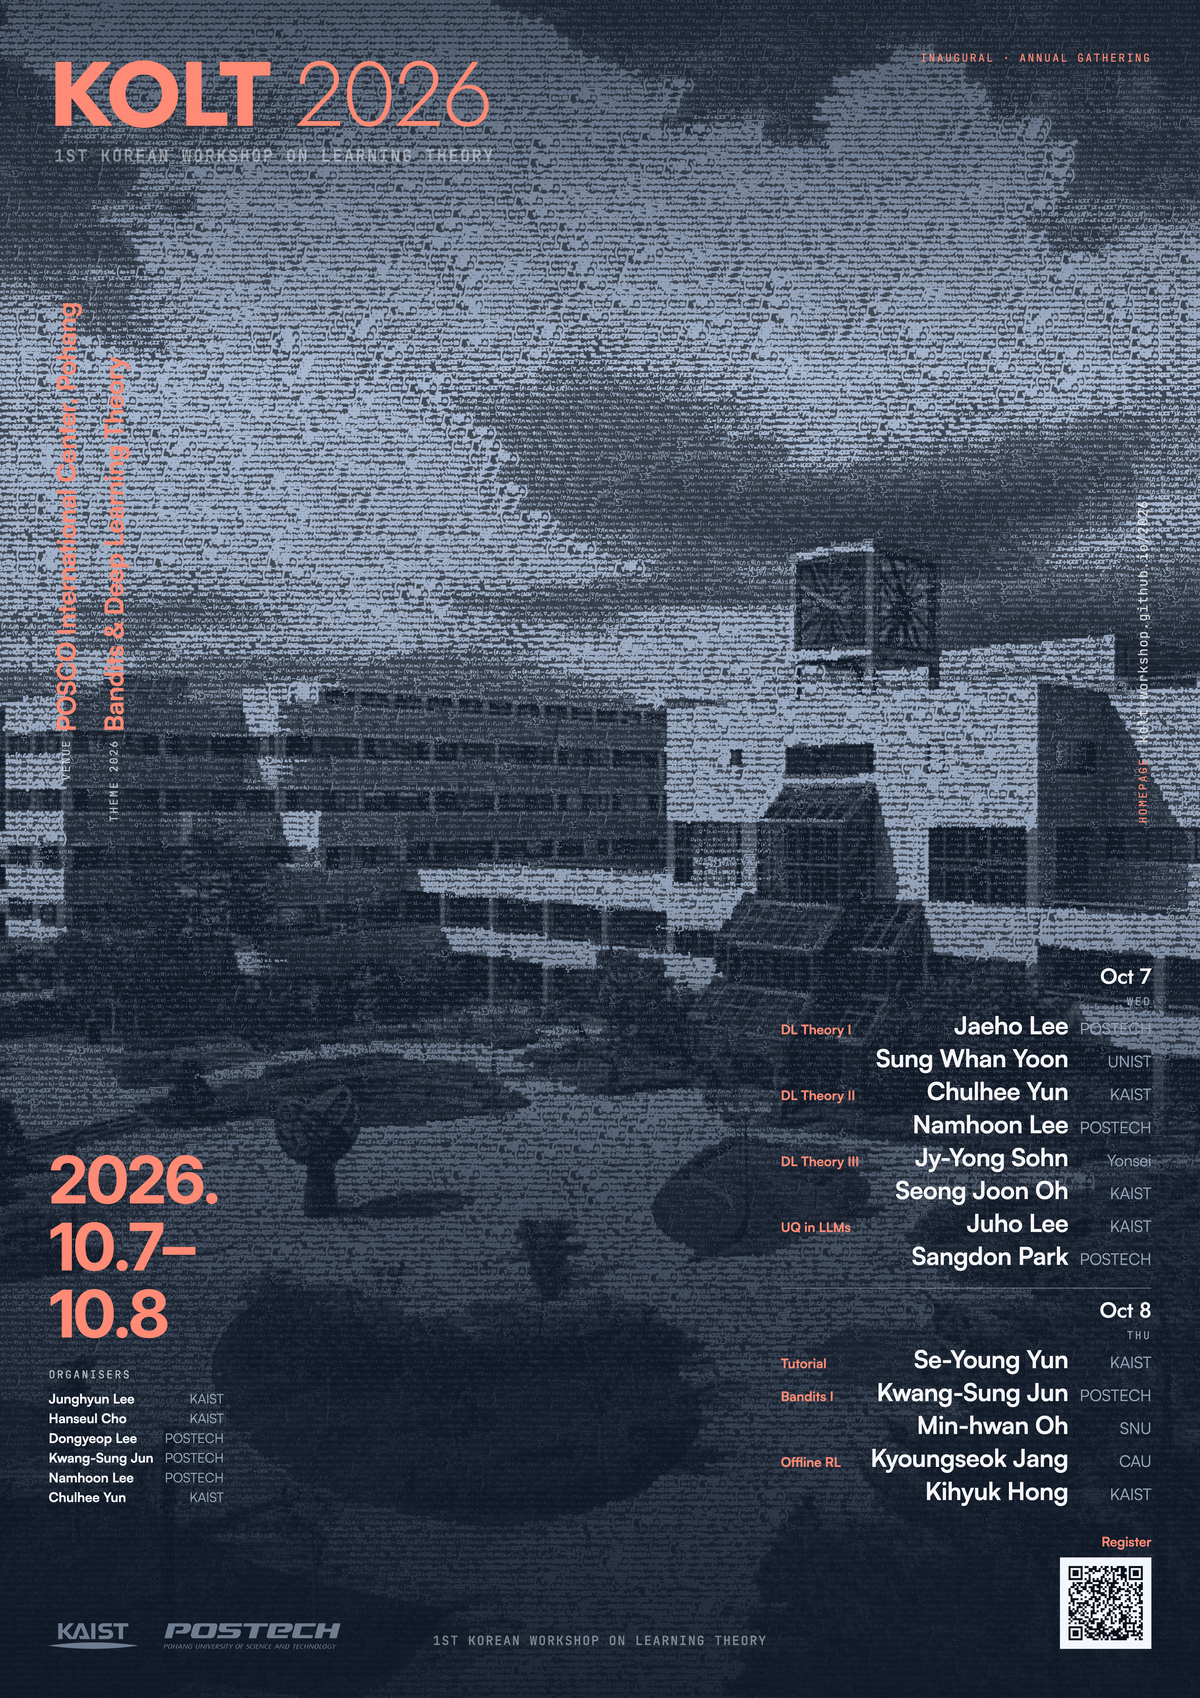
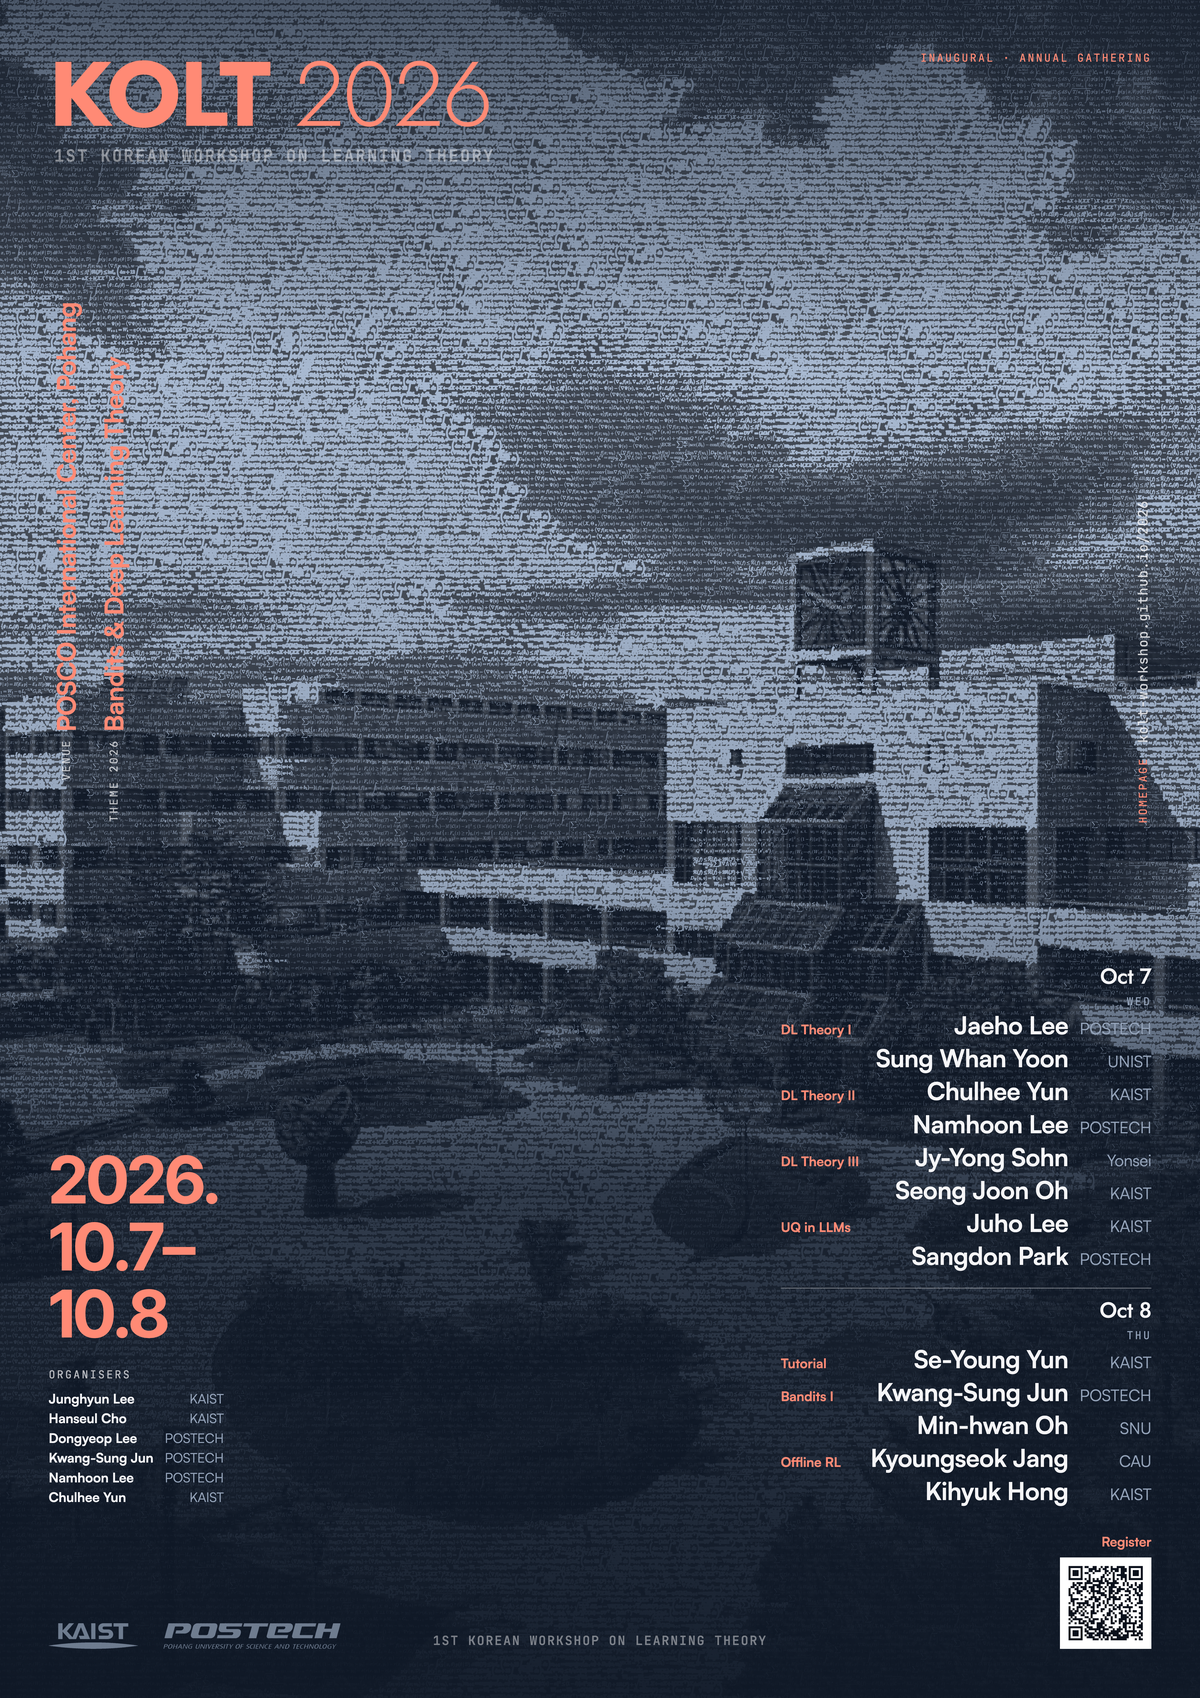
Take the sky up as far as it goes without furniture
The sheet is lighter again, and this time only where it can be. The veil is
thinner across the sky and untouched at both ends: the first stop goes up to
cover the strip the mark sits in, the last two stay exactly where they were
behind the programme, and the two in the middle come down hard. The ink is
white.

The reason it cannot simply be lifted everywhere is that the accent is a
mid-light colour and so is a bright drawing, so past a point the two meet.
Measured: lifting the whole veil took the mark from 3.3:1 against its own
ground to 2.2:1 and the rails to 2.8:1, both under the 3:1 a word that size
needs. Deepening the accent makes it worse rather than better — a darker coral
moves towards the drawing's luminance instead of away from it.

A halo of the ground colour under the coral does fix it, and would allow 86
against the 74.5 here. It is not used: it is furniture this sheet does not
otherwise have.

Mean luminance 52 at the start of this, 74.5 now. Mark 3.6:1, rails 3.1:1,
programme 15.2:1 — every one of them at or above where it began.

Changed region(s): [[0.1233, 0.6867, 0.555, 0.7491], [0.6475, 0.6867, 0.8017, 0.7491]]

diff --git a/tools/poster.py b/tools/poster.py
@@ -44,7 +44,7 @@ PALETTE = {
     # Near white. Across a room the sheet read as dark before it read as
     # anything else — the drawing is light marks on a dark field, and what
     # carries at that distance is how much light the marks put back.
-    "art_ink": "#f2f7fd",
+    "art_ink": "#ffffff",
     "ink": "#f5f5f7",
     "ink_dim": "#a8b8cd",
     "cool": "#93a2b8",
@@ -66,15 +66,20 @@ PALETTE = {
     # the sky and a plate under the campus wants far less of it, or the veil
     # simply repaints the whole sheet in the ground colour. Palette values, so
     # a scheme can set them without a second template.
-    # Not thinner everywhere — thinner in the middle and *thicker* at the very
-    # top. The veil was taking a third of the drawing's light with it, but
-    # simply lifting it all lifted the ground behind the mark too, and the mark
-    # is coral on that ground: taking the whole veil down took the mark from
-    # 3.3:1 to 2.2:1, under the 3:1 a 32mm word needs. The first stop covers
-    # only the strip the mark sits in, so it goes up while the rest comes down.
-    # Measured across the sheet: mean luminance 52 before any of this, 76 now,
-    # with the mark at 3.6:1 — better than it was — and the programme at 14.5:1.
-    "veil1": ".66", "veil2": ".10", "veil3": ".22", "veil4": ".66", "veil5": ".92",
+    # Thinner across the sky, and untouched at the two ends. The veil was taking
+    # a third of the drawing's light with it, but it cannot simply be lifted:
+    # the accent is a mid-light colour and so is a bright drawing, so past a
+    # point the two meet. Lifting the top took the mark from 3.3:1 against its
+    # own ground to 2.2:1, under the 3:1 a 32mm word needs, and lifting the
+    # bottom took the programme with it. So the first stop goes up to cover the
+    # strip the mark sits in, the last two stay where they always were behind
+    # the programme, and the two in the middle — the sky — come down hard.
+    #
+    # That is as far as it goes without a halo behind the coral, and a halo is
+    # furniture this sheet does not otherwise have. Measured: mean luminance 52
+    # before, 74.5 now; mark 3.6:1, rails 3.1:1, programme 15.2:1, every one of
+    # them at or above where it started.
+    "veil1": ".66", "veil2": ".10", "veil3": ".22", "veil4": ".80", "veil5": ".96",
     # How strongly the formulas themselves are drawn. On the dark sheet they
     # are the picture and run at full strength; a scheme that also lays a solid
     # plate under the campus wants them quieter, or the two together bury the
